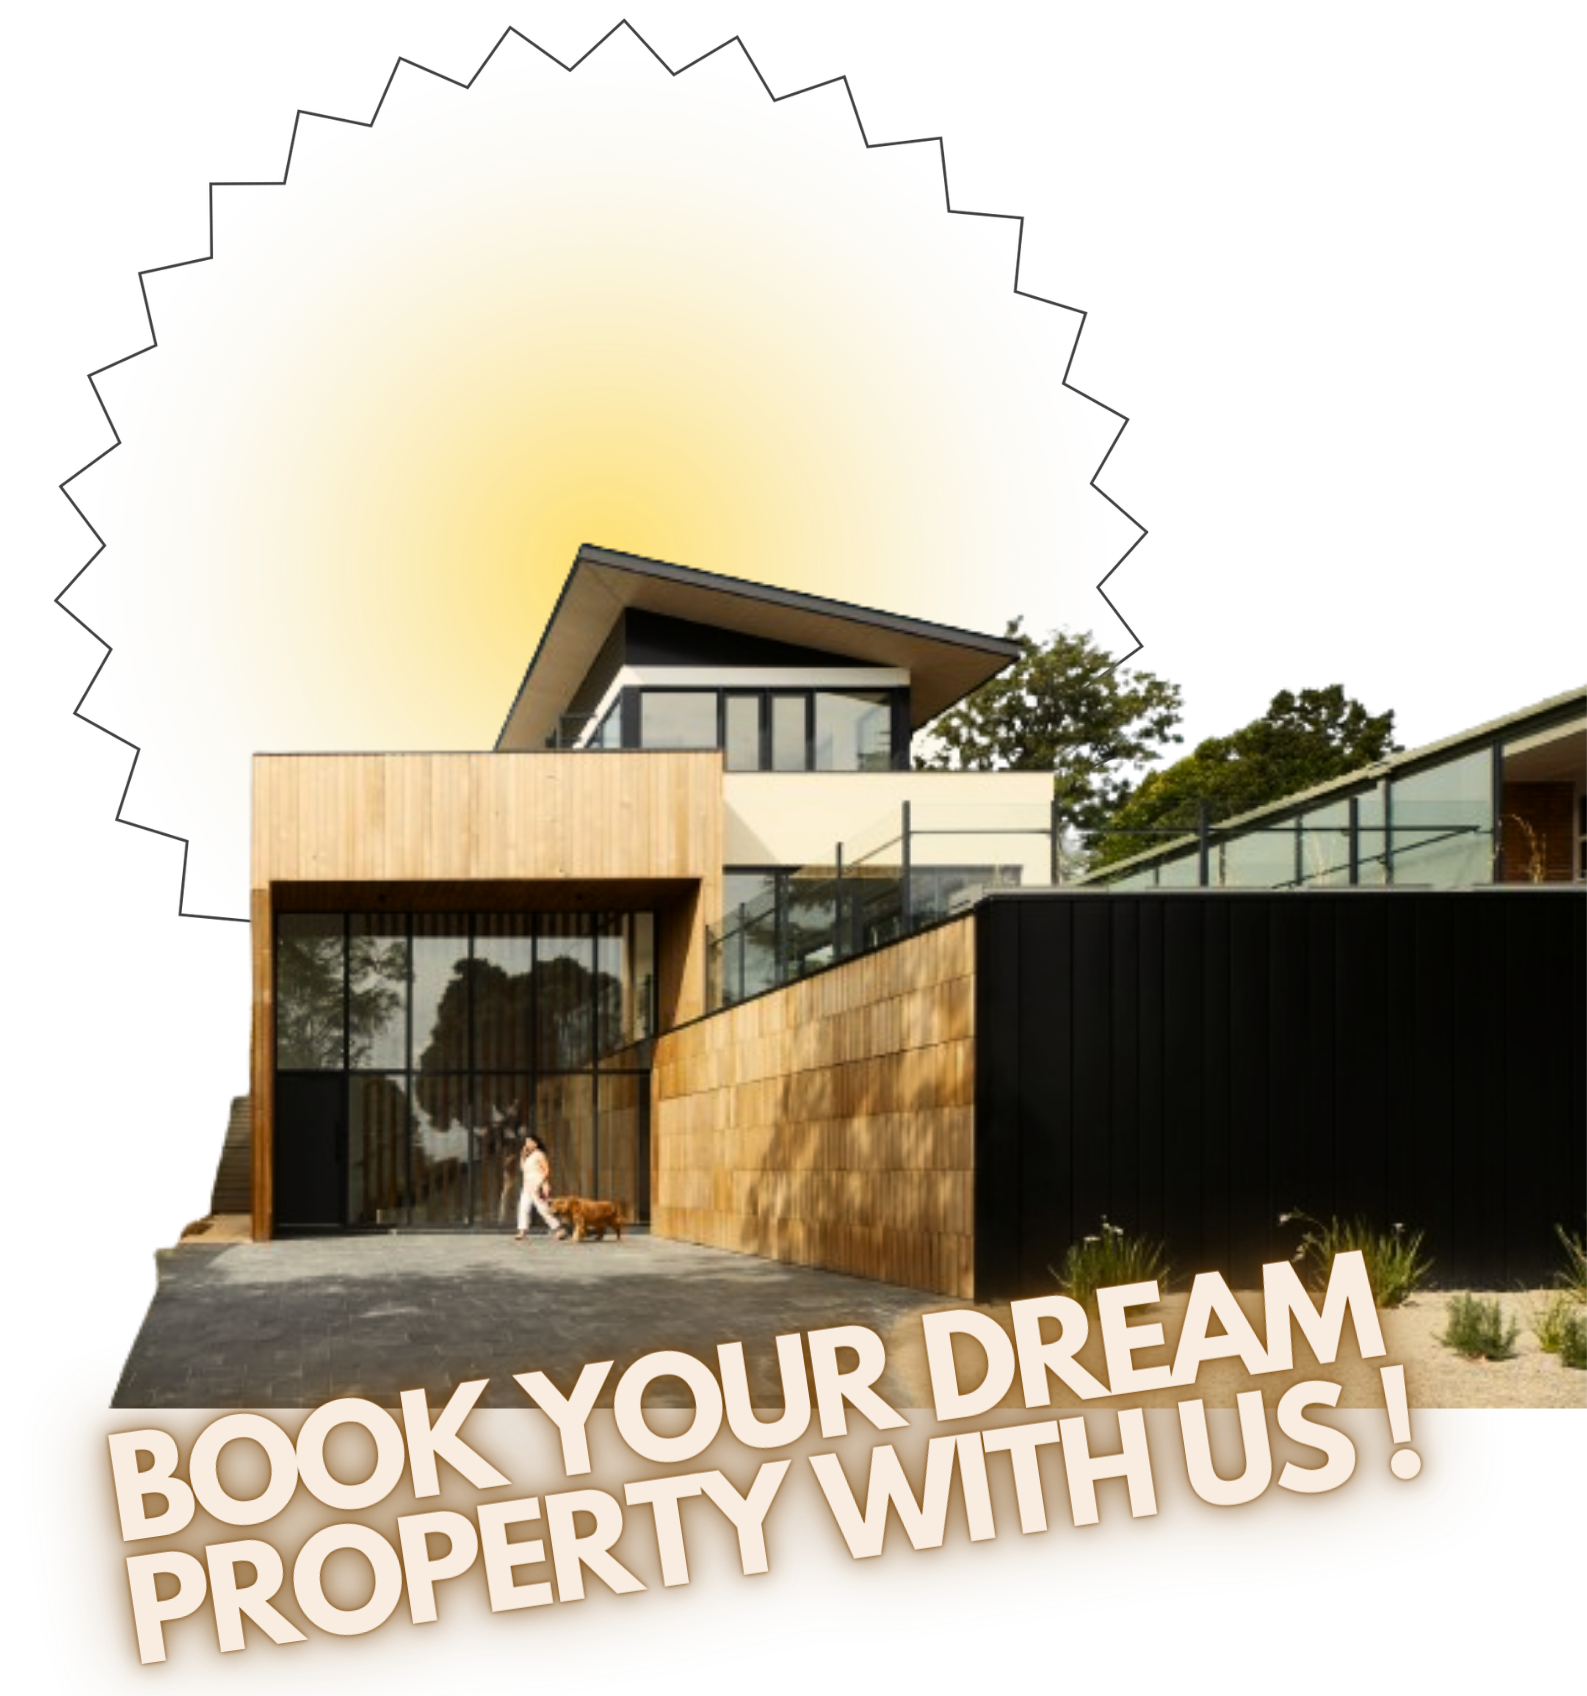
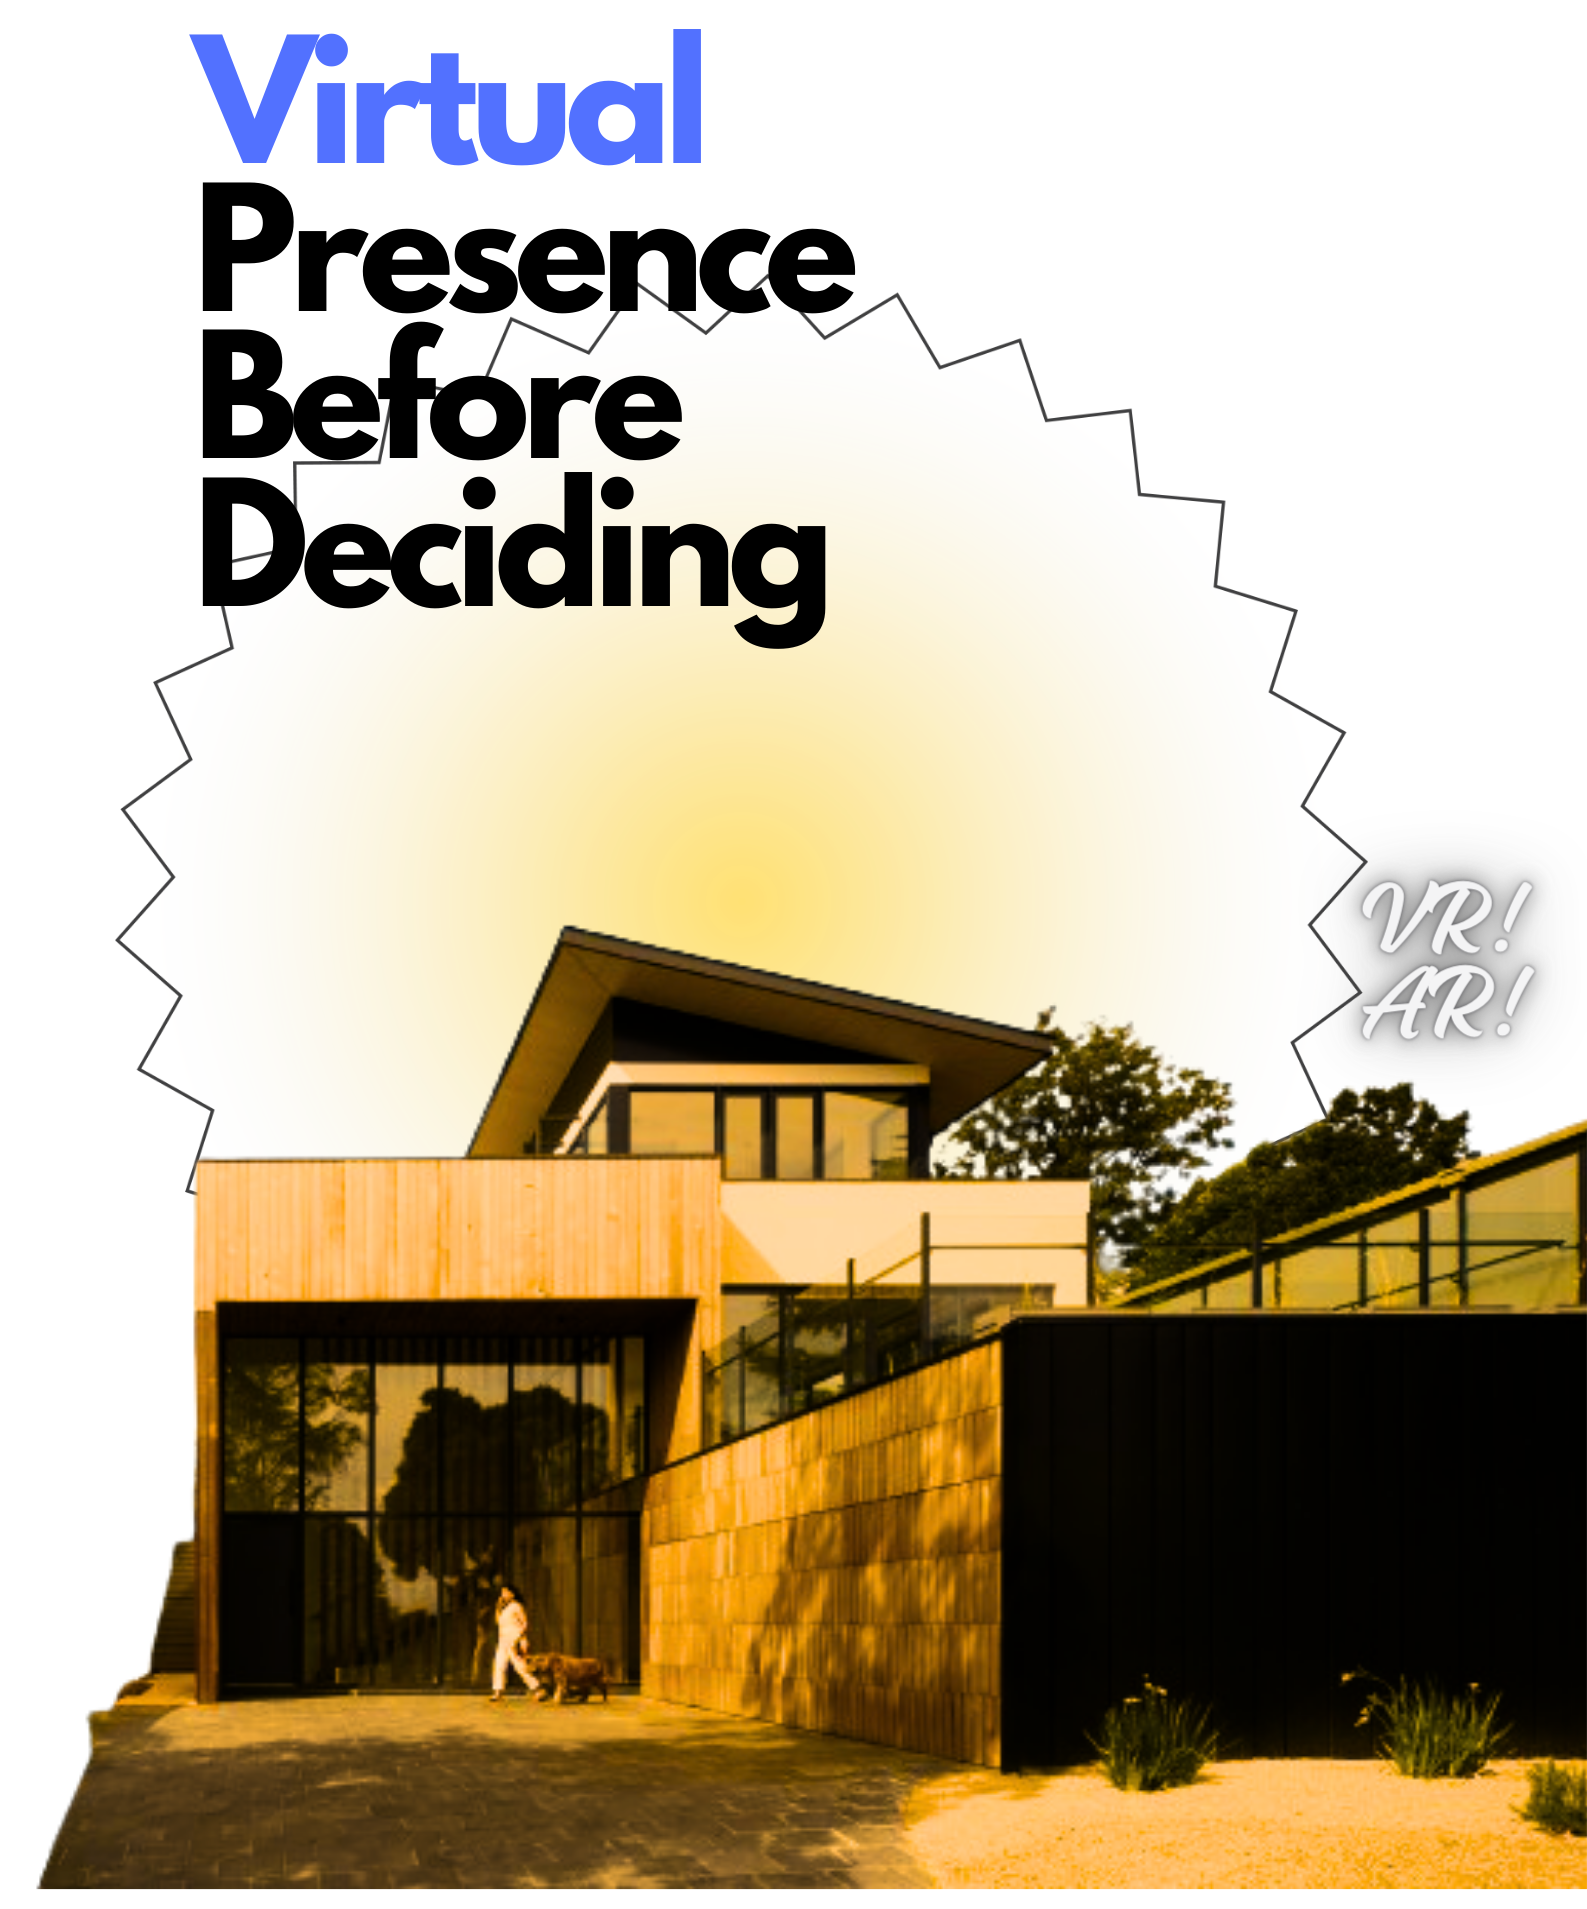
hero page ui updated

diff --git a/client/src/components/notVerified.jsx b/client/src/components/notVerified.jsx
@@ -3,7 +3,8 @@ import '../css/shareScreen.css'
 import { useEffect, useState } from 'react'
 import axios from 'axios'
 import { Link } from 'react-router-dom'
-
+import { RxCross1 } from "react-icons/rx";
+import { GoVerified } from "react-icons/go";
 function NotVerified({ toggleShowUpload }) {
 
     const [notVerified,setNotVerified] = useState([])
@@ -40,15 +41,15 @@ function NotVerified({ toggleShowUpload }) {
         <div className='overlay'>
             <div className='modal-content'>
                 <div className='flex items-center p-4 border-b border-gray-200 md:justify-between'>
-                    <p style={{justifyContent: 'center', padding: '0px',marginLeft: 'auto',cursor: 'pointer'}} onClick={()=>toggleShowUpload()}>❌</p>
+                    <p style={{justifyContent: 'center', padding: '0px',marginLeft: 'auto',cursor: 'pointer'}} onClick={()=>toggleShowUpload()}><RxCross1 size={24} /></p>
                 </div>
                 {loading && <p>LOADING......</p>}
-                <div className='test  p-4 pr-3 pl-3 md:grid md:grid-cols-2 lg:grid-cols-3 xl:grid-cols-4 gap-4'>
+                <div className='test  p-4 pr-3 pl-3 md:grid md:grid-cols-2 lg:grid-cols-3 xl:grid-cols-3 gap-4'>
                     {
                         notVerified.map((val,ind)=>(
-                            <div key={ind}>
-                                <Link to="/property" className='font-two' state={{ property: val }}>{val.name}</Link>
-                                <button className='p-6 mt-4 bg-black text-white py-2 px-4 rounded hover:bg-gray-700' onClick={(e)=>VerifyProperty(e,val._id)}>VERIFY</button>
+                            <div key={ind} className='p-5  '>
+                                <Link to="/property" className='font-two p-6 mt-4 bg-slate-100 text-black py-2 px-4 rounded hover:bg-slate-300 w-full' state={{ property: val }}>{val.name}</Link>
+                                <button className='p-6 mt-4 bg-green-400 text-black py-2 px-4 rounded hover:bg-green-300 w-full items-center text-center' onClick={(e)=>VerifyProperty(e,val._id)}><GoVerified size={24}/></button>
                             </div>
                         ))
                     }

diff --git a/client/src/components/Banner.jsx b/client/src/components/Banner.jsx
@@ -2,7 +2,7 @@ import React from 'react'
 // import { Link } from "react-router-dom";
 import Heroimg from "../assets/heroimg.png"
 import logo from '../assets/logo.png'
-
+import { MdRealEstateAgent } from "react-icons/md";
 import { TypeAnimation } from 'react-type-animation';
 const Banner = () => {
   return (
@@ -10,7 +10,7 @@ const Banner = () => {
       <div className="flex flex-col md:flex-row gap-4 md:gap-0 md:flex-wrap justify-center items-center md:justify-between md:items-start py-10 pl-9 pr-4">
   {/* First div for text content */}
   <div className="text-center md:text-left md:w-1/2">
-    <h1 className="font-bold text-6xl pb-6 text-yellow-950 sm:text-3xl ">Welcome to <img src={logo} alt="Logo" className='inline-block w-16 md:w-auto '/></h1>
+    <h1 className="font-extrabold text-3xl mb-6 text-yellow-950 lg:text-7xl ">Welcome to Virtual Estate </h1>
     {/* TypeAnimation component for animating text */}
     <TypeAnimation
       sequence={[
@@ -25,7 +25,7 @@ const Banner = () => {
     {/* SearchBar component */}
     
 
-
+    <MdRealEstateAgent size={96} className='m-5'/>
     
   </div>
   {/* Second div for an image */}

diff --git a/client/src/screens/property.jsx b/client/src/screens/property.jsx
@@ -127,8 +127,8 @@ function Property() {
         </button>
         {isAdmin === 'true' || isAdmin == true ?
           <div className='flex mt-2 justify-between '>
-            <p onClick={ToggleEdit} className='bg-amber-700 p-4 w-1/2 border hover:bg-amber-600 border-amber-900 text-center rounded-full mr-1' style={{cursor: 'pointer'}}>Edit User</p>
-            <p onClick={DeleteProperty} className='bg-red-500 p-4 w-1/2 border hover:bg-red-400  border-black text-center rounded-full' style={{cursor: 'pointer'}}>Delete</p>
+            <p onClick={ToggleEdit} className='bg-amber-50 p-4 w-1/2 border hover:bg-amber-600 border-amber-900 text-center rounded-full mr-1' style={{cursor: 'pointer'}}>Edit User</p>
+            <p onClick={DeleteProperty} className='bg-red-700 p-4 w-1/2 border hover:bg-red-400 text-white border-black text-center rounded-full' style={{cursor: 'pointer'}}>Delete</p>
           </div>
           :
           <></>

diff --git a/client/src/screens/login.jsx b/client/src/screens/login.jsx
@@ -1,7 +1,7 @@
 import { useState } from "react";
 import axios from 'axios';
 import { useUser } from '../useContext.jsx';
-import { useNavigate } from 'react-router-dom';
+import { Link, useNavigate } from 'react-router-dom';
 import Navbar from '../components/navbar.jsx';
 import { toast  } from "react-toastify";
 export const Login = () => {
@@ -105,7 +105,7 @@ export const Login = () => {
                     Submit
                 </button>}
                 <p className="text-sm font-light text-gray-500 dark:text-gray-400 mt-4 mb-3 pr-2">
-                      Don’t have an account yet? <a href="" className="font-medium text-blue-900 hover:underline dark:text-blue-500">Sign up</a>
+                      Don’t have an account yet? <Link   to="/a/register"className="font-medium text-blue-900 hover:underline dark:text-blue-500">Sign up</Link>
                   </p>
             </div>
         </div>

diff --git a/client/src/screens/register.jsx b/client/src/screens/register.jsx
@@ -1,6 +1,6 @@
 import React, { useState } from 'react';
 import axios from "axios";
-import { useNavigate } from 'react-router-dom';
+import {Link, useNavigate } from 'react-router-dom';
 import Navbar from '../components/navbar.jsx'
 import { toast  } from "react-toastify";
 export const Register = () => {
@@ -105,7 +105,7 @@ export const Register = () => {
    
     
   <p className="text-sm font-light text-gray-500 dark:text-gray-400 mt-4 mb-3 pr-2">
-                      Already have an account ? <a href="" className="font-medium text-blue-900 hover:underline dark:text-blue-500">Log In</a>
+                      Already have an account ? <Link   to="/a/login" className="font-medium text-blue-900 hover:underline dark:text-blue-500">Log In</Link>
                   </p>
   </div>
   
